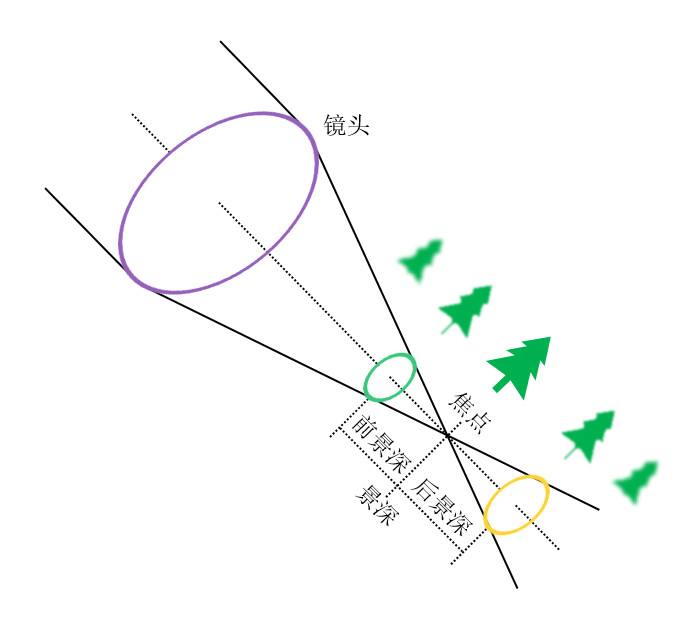
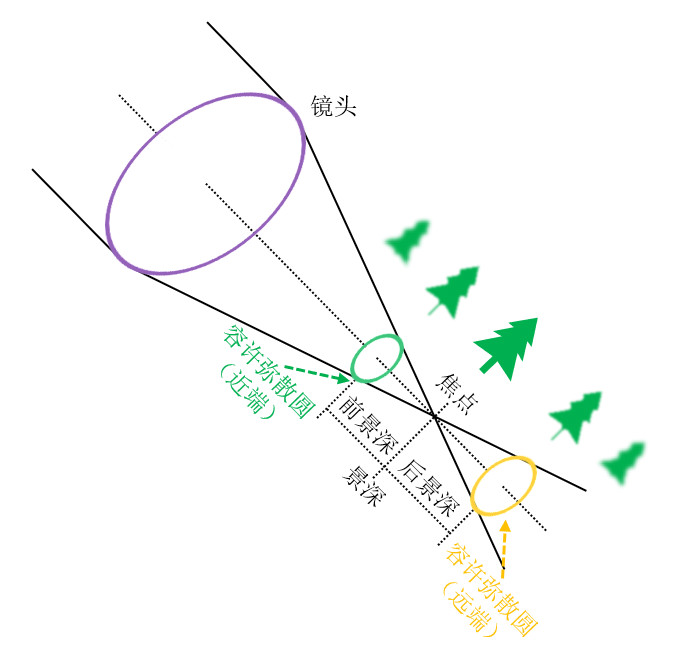
53D21786-D79D-44E5-B315-9FB07ED6E3AF

Changed region(s): [[0.0622, 0.0302, 0.9644, 0.9651], [0.7778, 0.8444, 0.8089, 0.8746], [0.4667, 0.4524, 0.4978, 0.4825]]

diff --git a/08_数字媒体/01_摄影技术/01_理论基础.md b/08_数字媒体/01_摄影技术/01_理论基础.md
@@ -72,16 +72,16 @@
 
 除了影视行业之外，无反结构也被广泛应用于其他领域：
 
-- 智能手机：手机是我们生活中的必备工具，微型摄像模组使随时随地拍摄成为可能。由于手机空间有限，光学模组性能难以提升，人们尝试通过计算摄影等方式优化成像效果。
-- 安防监控：摄像模组只用于录像，可以精简快门等机械结构，其可靠性为 `7 * 24` 小时连续记录提供了保障。
-- 工业视觉：工业相机专为特定的场景优化，可以拥有较高的帧率或分辨率，能够用于检测产品是否存在瑕疵。
+- 智能手机：手机是我们生活中的必备工具，微型摄像模组使随时随地拍摄成为可能。由于手机尺寸受限，光学性能难以提升，人们尝试通过计算摄影等方式优化成像效果。
+- 安防监控：传感器模组仅用于录像，可以移除快门等复杂的机械结构，其可靠性为 `7 * 24` 小时连续记录提供了保障。
+- 工业视觉：工业相机专为特定的场景优化，可以拥有较高的帧率或分辨率，能够批量检测产品是否存在瑕疵。
 
 
 # 图像传感器
 ## 简介
-光电效应 (Photoelectric Effect) 是指光线照射物体使其发射电子的物理现象，该现象由海因里希・赫兹于1887年首次发现，并由阿尔伯特・爱因斯坦于 1905 年通过实验验证。人们将多个能够产生光电效应的半导体单元封装为阵列，制造出能够采集影像的图像传感器 (Image Sensor) 。
+光电效应 (Photoelectric Effect) 是指光线照射物体使其发射电子的物理现象，该现象由海因里希・赫兹于 1887 年首次发现，并由阿尔伯特・爱因斯坦于 1905 年通过实验证实。人们将多个能够产生光电效应的半导体单元封装为阵列，制造出能够采集影像的图像传感器 (Image Sensor) 。
 
-图像传感器上的光电二极管及附属组件被称为像元 (Picture Element) 或像素 (Pixel) ，其中像元偏向于描述传感器的物理结构，像素则偏向于描述图像的组成部分。传感器中部分像元未与输出图像的像素对应，它们用于成像矫正与补偿等工作，因此传感器输出的图像尺寸通常略低于像元数量，我们将输出图像的像素总数称为有效像素。
+图像传感器中的光电二极管及附属组件被称为像元 (Picture Element) 或像素 (Pixel) ，其中像元偏向于描述传感器的物理结构，像素则偏向于描述图像的组成部分。传感器中部分像元未与输出图像的像素对应，它们用于成像矫正与补偿等工作，因此传感器输出的图像尺寸通常略低于像元数量，我们将输出图像的像素总数称为“有效像素”。
 
 图像传感器的工作过程如下文列表所示：
 
@@ -213,9 +213,7 @@ Micro 4/3 规格被简称为 M43 系统，尺寸为 `17.3mm × 13mm`，通常用
 
 🔶 一英寸
 
-“一英寸”指 `13.2mm×8.8mm` 规格，并非传感器本身的物理尺寸。该规格沿用自早期电子摄像管的球形外壳直径，传感器的实际尺寸为直径一英寸圆环的内切矩形。
-
-此类传感器通常用于手机等便携设备。
+“一英寸”指 `13.2mm×8.8mm` 规格，并非传感器本身的物理尺寸。该规格沿用自早期电子摄像管的球形外壳直径，传感器的实际尺寸为直径一英寸圆环的内切矩形。此类传感器通常用于智能手机等便携设备。
 
 ## 制造工艺
 图像传感器的制造工艺如下文图片所示：
@@ -257,7 +255,7 @@ Micro 4/3 规格被简称为 M43 系统，尺寸为 `17.3mm × 13mm`，通常用
 
 </div>
 
-
+<!-- TODO
 相关概念
 
 
@@ -370,17 +368,17 @@ Dual Gain Output
 
 
 提高iso能放大输入信号，但会降低动态范围。
-
+-->
 
 # 快门系统
 ## 物理结构
 快门 (Shutter) 是位于传感器与透镜组之间的机械结构，在非曝光阶段保持闭合，避免传感器受到外部光线的干扰，此时传感器可以读取前一次拍摄的数据，或执行复位准备下一次拍摄；在曝光阶段快门将会开启，此时入射光线抵达传感器并产生影像。
 
-我们可以通过调整快门开启时间控制画面的亮度，若快门开启时间较长，传感器接收到的光线更多，则画面较亮；若快门开启时间较短，传感器接收到的光线更少，则画面较暗。快门开启时间的计量单位是“秒 (s) ”，低于 1 秒时通常记作分数形式，例如： `1/400s (2.5ms)` 、 `1/2s (500ms)` 、 `4s` 等，我们习惯将快门开启时间称为“快门速度”，并将开启时间较短称为“快门速度较快”，将开启时间较长称为“快门速度较慢”。
+我们可以通过调整快门开启时长控制画面的亮度，若快门开启时长较久，传感器接收到的光线更多，则画面较亮；若快门开启时长较短，传感器接收到的光线更少，则画面较暗。快门开启时长的计量单位是“秒 (s) ”，低于 1 秒时通常记作分数形式，例如： `1/400s (2.5ms)` 、 `1/2s (500ms)` 、 `4s` 等，我们习惯将快门开启时长称为“快门速度”，并将开启时间较短称为“快门速度较快”，将开启时间较长称为“快门速度较慢”。
 
-较为常见的一种快门组件安装在传感器前端，传感器所在平面正是光线聚焦后能够清晰成像的平面，因此这种结构被称为“焦平面快门”。焦平面快门由若干绸布或钢片组成，电磁机构可以控制绸布或钢片展开遮盖传感器，或折叠暴露传感器。
+较为常见的一种快门组件安装在传感器前端，传感器所在平面正是光线聚焦后能够清晰成像的平面，因此这种结构被称为“焦平面快门”。焦平面快门由若干绸布或钢片组成，电磁机构可以控制绸布或钢片展开遮盖传感器、折叠暴露传感器。
 
-全画幅以上尺寸的传感器面积过大，若仍采用焦平面快门，机械结构需要在更长的距离上移动，难以提高快门速度。此类设备通常采用“镜间快门”，快门组件被放置在透镜组焦点后端，该位置成像面积相对于焦平面更小，遮光片无需长距离移动，容易实现高速快门。
+全画幅以上尺寸的传感器面积过大，若仍采用焦平面快门，机械结构运动距离较长，难以提高快门速度。此类设备通常采用“镜间快门”，快门组件被放置在透镜组焦点后端，该位置成像面积相对于焦平面更小，遮光片无需长距离移动，容易实现高速快门。
 
 下文图片展示了两种快门组件的实物外观：
 
@@ -393,9 +391,9 @@ Dual Gain Output
 “焦平面快门”和“镜间快门”统称为“机械快门”，部分设备没有机械快门结构，而是直接从传感器读出数据实现图像采集，此类控制方式被称为“电子快门”，后文章节 [🧭 电子快门](#电子快门) 将会详细讨论相关内容。
 
 ## 工作流程
-若我们仅使用单组遮光片实现快门结构，当曝光开始时，遮光片向下折叠，传感器顶部的像素首先接受光照，遮光片完全折叠后，传感器底部的像素才能接受光照；当曝光结束时，遮光片向上展开，传感器底部首先被遮挡，顶部则最后被遮挡。在此过程中，传感器顶部像素曝光时间是底部像素的两倍，最终画面顶部将比底部更亮。
+若我们仅使用单组遮光片实现快门结构，当曝光开始时，遮光片向下折叠，传感器顶部的像元首先接受光照，遮光片完全折叠后，传感器底部的像元才能接受光照；当曝光结束时，遮光片向上展开，传感器底部首先被遮挡，顶部则最后被遮挡。在此过程中，传感器顶部像元曝光时长是底部像元的两倍，最终画面顶部将比底部更亮。
 
-在实际的设备中，快门结构由两组运动方向相反的遮光片组成，它们分别被称为“前帘”和“后帘”。曝光开始时，前帘向底部折叠解除遮挡；曝光结束时，后帘从顶部展开重新遮挡传感器，此时传感器各处所受光照时长相等，能够确保整个画面亮度均匀。
+在实际的影像设备中，快门结构由两组运动方向相反的遮光片组成，它们分别被称为“前帘”和“后帘”。曝光开始时，前帘向底部折叠解除遮挡；曝光结束时，后帘从顶部展开重新遮挡传感器，此时传感器各处所受光照时长相等，能够确保整个画面亮度均匀。
 
 下文图片展示了焦平面快门的工作流程：
 
@@ -437,7 +435,7 @@ Dual Gain Output
 CCD 传感器像素总量较低，单个感光单元面积较大，人们在每个感光单元中设计了一块金属屏蔽层，当曝光完成后，电荷立即移入屏蔽层，不再受到外部光线的干扰，因此 CCD 传感器通常都支持全局快门。
 
 CMOS 传感器像素总量较高，单个感光单元面积较小，感光单元内部还需要放置 A/D 转换器等模块，难以添加额外的组件提高读出速度，因此大部分 CMOS 传感器都通过卷帘快门方式读取数据。
- 
+
 随着 3D 堆叠工艺的进步，我们可以在 CMOS 中集成更多器件，以提高读出速度并实现全局快门；但是此类传感器制造成本高昂，与同级别的非堆栈传感器相比性能也有所降低。在当前的科技水平下，高解析度和高速度无法同时实现，我们只能根据应用场景选择一个重点方向进行优化。
 
 全局快门能够完全避免果冻效应，因此多数采用全局快门的设备不再配备机械快门。对于使用卷帘快门的设备，配备机械快门则可以在一定程度上缓解果冻效应：当机械快门闭合之后，传感器读出数据不再受到外部光线的干扰，即使物体仍在移动也不会影响最终的成像效果。
@@ -452,6 +450,7 @@ CMOS 传感器像素总量较高，单个感光单元面积较小，感光单元
 
 </div>
 
+<!-- TODO
 ## 电子前帘快门
 机械快门关闭造成震动可能会对长焦镜头造成影响，因此出现了电子前帘快门EFCS，在前帘开启状态下直接重置电压，然后进行拍摄，电子前帘会导致亮度不均匀。
 
@@ -465,10 +464,13 @@ CMOS 传感器像素总量较高，单个感光单元面积较小，感光单元
 因为没有对应的“机械前帘”来对称地拦截光束，导致原本应该是圆形的焦外光斑，底部会被切掉一截，变成“半圆”或“扁圆”。
 
 低于 1/1000s可以开启，高于该数值则应当使用机械快门。
-
+-->
 
 # 镜头系统
 ## 工作原理
+镜头由多个镜片组成，用于接收环境光线并汇聚到传感器上，使传感器成像。
+
+下文图片展示了镜头的工作原理：
 
 <div align="center">
 
@@ -476,20 +478,24 @@ CMOS 传感器像素总量较高，单个感光单元面积较小，感光单元
 
 </div>
 
-
-
-焦距
-
-物距( $u$ )
-
-物距：物体到透镜光心的距离，一般用u表示。
-像距：像到透镜光心之间的距离，一般用v表。
-
-物距(u)、像距(v)和焦距(f)三者关系满足高斯公式 :
+- 焦点 ( $F$ ) : 光线穿过凸透镜后将汇聚于一点，该点被称为焦点 (focal point) 。
+- 焦距 ( $f$ ) : 焦点到透镜中心点的距离即焦距 (focal length)，焦距是镜头的物理特性，在生产阶段已经固定。
+- 物距 ( $u$ ) : 物体到透镜光心的距离，一般用u表示。
+- 像距 ( $v$ ) : 像到透镜光心之间的距离，一般用v表。
 
 
 
-凸透镜对于各种颜色的光线折射率不同，边缘与中心的成像效果也有不同，因此现实中的镜头还需要加入凹透镜，非球面、低色散等多种镜片，修正成像误差。一种镜头结构如下文所示：
+物距、像距(v)和焦距(f)三者关系满足高斯公式 :
+
+$$
+\frac{1}{u} + \frac{1}{v} = \frac{1}{f}
+$$
+
+
+
+凸透镜对于各种颜色的光线折射率不同，边缘与中心的成像效果也有差异，因此现实中的镜头还需要加入凹透镜，非球面、低色散等多种镜片，修正成像误差。
+
+某款镜头的结构如下文图片所示：
 
 <div align="center">
 
@@ -497,20 +503,21 @@ CMOS 传感器像素总量较高，单个感光单元面积较小，感光单元
 
 </div>
 
-此时我们考察的焦点、焦距都是多个镜片整体的光学点位，不再对应某个具体的镜片。
+对于多组镜片组合而成的镜头，我们考察的焦点、焦距都是整体的光学点位，不再对应某个具体的镜片。
 
+当我们改变镜片之间的距离时，其焦点位置也会发生改变，使得取景范围发生变化，此类镜头被称为变焦镜头，与之相对的，无法改变镜片之间距离的镜头，被称为定焦镜头。
 
-定焦、变焦
 
 
 
 
 
 ## 对焦
+焦点处的光在
 
 
 In focus
-在某个位置平行于镜片的物体都是清晰的，我们将该平面称合焦面，和焦面前后一定范围外的物体成像是模糊的，我们称为失焦Out of focus
+在某个位置平行于镜片的物体都是清晰的，我们将该平面称合焦面 focal plane，和焦面前后一定范围外的物体成像是模糊的，我们称为失焦Out of focus
 
 调整透镜与传感器的距离，可以调整合焦面的位置，使被摄物体成像最为清晰，这一过程被称为对焦Focus。
 
@@ -521,15 +528,11 @@ In focus
 
 </div>
 
-在上图中，场景一合焦面在实验场地的人员位置，因此人员在成像中是清晰的，树木
+在上图中，场景一合焦面在实验场地的人员位置，因此人员在成像中是清晰的，远离合焦面的树木则较为模糊。
+
+我们可以改变镜头与感光元件的距离移动合焦面，在场景二中，合焦面转移到树木位置，因此在成像中树木是清晰的，原理合焦面的人员则变得模糊。
 
 
-
-$$
-\frac{1}{u} + \frac{1}{v} = \frac{1}{f}
-$$
-
-$u$（物距）： 被摄物体到镜头的距离（由拍摄主体的位置决定）。$f$（焦距）： 镜头的固有光学光学参数。$v$（像距）： 镜头光学中心到感光元件（CMOS/CCD）的距离。
 
 手动对焦，机械结构
 
@@ -585,20 +588,37 @@ $$
 
 ## 景深
 
+位于合焦面的物体最清晰，合焦面两侧远离越来越模糊。
 
-7.1 弥散圆
 
-弥散圆的英文名字叫做“Circle of Confusion”，翻译过来就是“困惑之圆” 搭配表情–> ?，也有人管它叫 渐晕圆、弥散点、模糊圆、模糊点之类。
+
+弥散圆(Circle of Confusion)
+
+远离合焦面的点光源成像将逐步发散为圆圈，我们将其成像称为弥散圆，
+
+<div align="center">
+
+![弥散圆](./Assets_理论基础/镜头系统_弥散圆.jpg)
+
+</div>
+
+理论上只有合焦面上的点成像是清晰的，任何远离合焦面的点都会变模糊，在现实中，胶片或传感器的像元是最小记录单位，需要占据物理空间，其尺寸不可能为0，因此我们认为尺寸为 [0 , <像元面积>] 范围内的弥散圆都是清晰的。与像元面积等大的弥散圆既模糊与清晰的界限，我们将其称为容许弥散圆(permissible circle of confusion)。
+
+
 弥散圆的单位一般都是µm，也就是千分之一毫米，比如30µm，那就是0.03毫米。
-弥散圆是“清晰”和“模糊”之间的一个临界点，我们来照一张图片说明一下。
-上边这张图片，我们能看到在左侧一个小光点通过镜片聚焦以后投射到了右边不同的三个焦平面上，然而根据焦平面位置的不同，这个小光点将会有不一样的成像；红色的焦平面上，小圆点成为了一个小的虚化圆形，绿色的则几乎仅仅是一个非常小的点而已，蓝色的就是更大的一个模糊的圆形。
 
-而这三个小圆点哪个看起来不模糊、更清晰？显然是绿色平面上的，于是我们可以说这个情景中的弥散圆的尺寸就是这个小圆点的尺寸，因为任何比它还小的圆点我们都会认为是锐利，比它大的都认为是模糊。
+不同的厂家、不同的胶片面积都有不同的容许弥散圆直径的数值定义。一般常用的是：
+
+画幅	24mmx36mm	6cmx9cm	4”x5”
+弥散圆直径	0.0035mm	0.0817mm	0.146mm
+
+35mm照相镜头的容许弥散圆，大约是底片对角线长度的1/1000~1/1500左右。前提是画面放大为5x7英寸的照片，观察距离为25~30cm。
 
 
-从原理来讲，在远焦点和近焦点前后各有一个容许弥散圆，这个范围之间就叫景深，也就是说在对焦点前后，其影像仍然有一段清晰范围的，而被摄体的前后纵深，控制了在感光元件上的影像的模糊度。下面我们用图文结合的方式更容易理解，那么我们先来了解几个相关的概念：
 
+景深(depth of field)
 
+从原理来讲，在远焦点和近焦点前后各有一个容许弥散圆，这个范围之间就叫景深，也就是说在对焦点前后，其影像仍然有一段清晰范围的，而被摄体的前后纵深，控制了在感光元件上的影像的模糊度。
 
 <div align="center">
 
@@ -607,57 +627,43 @@ $$
 </div>
 
 
-
-7.2 景深
-
-在焦点前后各有一个容许弥散圆，这两个弥散圆之间的距离就叫焦深。
-对应着在被摄主体(对焦点)前后，其影像仍然有一段清晰范围的，就是景深。
-
-1、焦点(focus)
-
-与光轴
-平行的光线射入凸透镜
-
-时，理想的镜头应该是所有的光线聚集在一点后，再以锥状的扩散开来，这个聚集所有光线的一点，就叫做焦点
-
-2、弥散圆(circle of confusion
-
-)
-
-在焦点前后，光线开始聚集和扩散，点的影象
-
-变成模糊的，形成一个扩大的圆，这个圆就叫做弥散圆。
-
-在实际应用中，观赏拍摄的影象是以某种方式(比如投影、放大成照片等等)来观察的，人的肉眼所感受到的影象与放大倍率
-、投影距离及观看距离有很大的关系，如果弥散圆的直径小于人眼的鉴别能力，在一定范围内实际影象产生的模糊是不能辨认的。这个不能辨认的弥散圆就称为容许弥散圆(permissible
-
-circle of confusion)。
-
-注意：
-
-不同的厂家、不同的胶片面积都有不同的容许弥散圆直径
-
-的数值定义。一般常用的是：
-画幅	24mmx36mm	6cmx9cm	4”x5”
-弥散圆直径	0.0035mm	0.0817mm	0.146mm
-
-35mm照相镜头的容许弥散圆，大约是底片对角线长度的1/1000~1/1500左右。前提是画面放大为5x7英寸的照片，观察距离为25~30cm。
-
-3、景深(depth of field
-
-在焦点前后各有一个容许弥散圆，这两个弥散圆之间的距离就叫景深，即：在被摄主体(对焦点)前后，其影像仍然有一段清晰范围的，就是景深。换言之，被摄体的前后纵深，呈现在底片面的影象模糊度，都在容许弥散圆的限定范围内。
-
-景深特点：景深随镜头的焦距、光圈值、拍摄距离
-
-而变化。对于固定焦距和拍摄距离，使用光圈越小，景深越大。
-
-以持照相机拍摄者为基准，从焦点到近处容许弥散圆的的距离叫前景深
-，从焦点到远方容许弥散圆的距离叫后景深
+以持照相机拍摄者为基准，从焦点到近处容许弥散圆的的距离叫前景深，从焦点到远方容许弥散圆的距离叫后景深
 
 
 4、景深的计算公式及相关参数
 
-参数定义在光学与摄影学中，景深计算依赖以下核心参数：$f$：镜头焦距（Focal length）$F$：光圈 F 值 / 光圈系数（Aperture f-number）$c$：容许弥散圆直径（Circle of Confusion, CoC）$L$：对焦距离 / 物距（Focusing distance）$H$：超焦距（Hyperfocal distance），其基本定义公式为 $H = \frac{f^2}{F \cdot c}$精确景深公式1. 前景界与前景深（Near Limit & Front DoF）前景界距离 $D_{\text{near}}$（即景深最近可清晰成像点到镜头的距离）：$$D_{\text{near}} = \frac{L \cdot f^2}{f^2 + F \cdot c \cdot (L - f)}$$前景深 $\Delta D_{\text{front}}$（对焦平面到前景界的距离区间）：$$\Delta D_{\text{front}} = L - D_{\text{near}} = \frac{F \cdot c \cdot L \cdot (L - f)}{f^2 + F \cdot c \cdot (L - f)}$$2. 后景界与后景深（Far Limit & Rear DoF）后景界距离 $D_{\text{far}}$（即景深最远可清晰成像点到镜头的距离）：$$D_{\text{far}} = \frac{L \cdot f^2}{f^2 - F \cdot c \cdot (L - f)}$$后景深 $\Delta D_{\text{rear}}$（对焦平面到后景界的距离区间）：$$\Delta D_{\text{rear}} = D_{\text{far}} - L = \frac{F \cdot c \cdot L \cdot (L - f)}{f^2 - F \cdot c \cdot (L - f)}$$注意：当分母 $f^2 - F \cdot c \cdot (L - f) \le 0$ 时，后景界距离 $D_{\text{far}}$ 趋近于无穷大（$\infty$），此时镜头已对焦在超焦距或更远位置。简化近似公式（当 $L \gg f$ 时）在日常摄影中，物距 $L$ 通常远大于镜头焦距 $f$（即 $L - f \approx L$）。引入超焦距 $H \approx \frac{f^2}{F \cdot c}$ 后，公式可简化为：前景界距离：$D_{\text{near}} \approx \frac{H \cdot L}{H + L}$后景界距离：$D_{\text{far}} \approx \frac{H \cdot L}{H - L}$前景深：$$\Delta D_{\text{front}} \approx \frac{L^2}{H + L}$$后景深：$$\Delta D_{\text{rear}} \approx \frac{L^2}{H - L}$$总景深公式（Total DoF）总景深等于前景深与后景深之和（$\Delta D = \Delta D_{\text{front}} + \Delta D_{\text{rear}}$）：$$\Delta D = \frac{2 \cdot F \cdot c \cdot L \cdot (L - f) \cdot f^2}{f^4 - F^2 \cdot c^2 \cdot (L - f)^2}$$简化形式：$$\Delta D \approx \frac{2 \cdot H \cdot L^2}{H^2 - L^2}$$从后景深公式的分母可以看出，由于分母小于前景深的分母，在任何有限对焦距离下，后景深始终大于前景深（$\Delta D_{\text{rear}} > \Delta D_{\text{front}}$）。
+参数定义在光学与摄影学中，景深计算依赖以下核心参数：
+
+$f$：镜头焦距（Focal length）
+
+
+$F$：光圈 F 值 / 光圈系数（Aperture f-number）
+
+$c$：容许弥散圆直径（Circle of Confusion, CoC）
+
+$L$：对焦距离 / 物距（Focusing distance）
+
+
+
+精确景深公式
+
+前景界与前景深（Near Limit & Front DoF）前景界距离 $D_{\text{near}}$
+（即景深最近可清晰成像点到镜头的距离）：
+
+$$D_{\text{near}} = \frac{L \cdot f^2}{f^2 + F \cdot c \cdot (L - f)}$$
+前景深 $\Delta D_{\text{front}}$（对焦平面到前景界的距离区间）：
+
+$$\Delta D_{\text{front}} = L - D_{\text{near}} = \frac{F \cdot c \cdot L \cdot (L - f)}{f^2 + F \cdot c \cdot (L - f)}$$
+
+后景界与后景深（Far Limit & Rear DoF）后景界距离 $D_{\text{far}}$（即景深最远可清晰成像点到镜头的距离）：
+
+$$D_{\text{far}} = \frac{L \cdot f^2}{f^2 - F \cdot c \cdot (L - f)}$$
+
+后景深 $\Delta D_{\text{rear}}$
+（对焦平面到后景界的距离区间）：
+
+$$\Delta D_{\text{rear}} = D_{\text{far}} - L = \frac{F \cdot c \cdot L \cdot (L - f)}{f^2 - F \cdot c \cdot (L - f)}$$
+
 
 
 (1)、200/2.8对焦在5m时，f/2.8的景深：
@@ -693,3 +699,39 @@ L=5000mm
 ΔL2=31mm
 
 ΔL=61mm
+
+
+
+### 超焦距
+
+<div align="center">
+
+![超焦距状态](./Assets_理论基础/镜头系统_超焦距状态.jpg)
+
+</div>
+
+超焦距是一个对焦距离，达到该距离后，后景深为无穷大，对于监控摄像机、运动相机等需要确保整个画面完全清晰的设备，通常将对焦距离固定在超焦距且不允许用户调节，移除调焦机械组件可以降低成本与提高可靠性。
+
+缺点是无法调焦，因此无法拍摄较近的物体。
+
+
+注意：当分母 $f^2 - F \cdot c \cdot (L - f) \le 0$ 时，后景界距离 $D_{\text{far}}$ 趋近于无穷大（$\infty$），此时镜头已对焦在超焦距或更远位置。简化近似公式（当 $L \gg f$ 时）在日常摄影中，物距 $L$ 通常远大于镜头焦距 $f$（即 $L - f \approx L$）。引入超焦距 $H \approx \frac{f^2}{F \cdot c}$ 后，公式可简化为：前景界距离：$D_{\text{near}} \approx \frac{H \cdot L}{H + L}$后景界距离：$D_{\text{far}} \approx \frac{H \cdot L}{H - L}$前景深：$$\Delta D_{\text{front}} \approx \frac{L^2}{H + L}$$后景深：$$\Delta D_{\text{rear}} \approx \frac{L^2}{H - L}$$总景深公式（Total DoF）总景深等于前景深与后景深之和（$\Delta D = \Delta D_{\text{front}} + \Delta D_{\text{rear}}$）：
+
+$$\Delta D = \frac{2 \cdot F \cdot c \cdot L \cdot (L - f) \cdot f^2}{f^4 - F^2 \cdot c^2 \cdot (L - f)^2}$$
+
+简化形式：
+
+$$\Delta D \approx \frac{2 \cdot H \cdot L^2}{H^2 - L^2}$$
+
+从后景深公式的分母可以看出，由于分母小于前景深的分母，在任何有限对焦距离下，后景深始终大于前景深（$\Delta D_{\text{rear}} > \Delta D_{\text{front}}$）。
+
+
+
+### 变化规律
+
+
+镜头光圈：光圈越大，景深越小；光圈越小，景深越大；
+
+镜头焦距：镜头焦距越长，景深越小；焦距越短，景深越大；
+
+拍摄距离：距离越远，景深越大；距离越近，景深越小。
